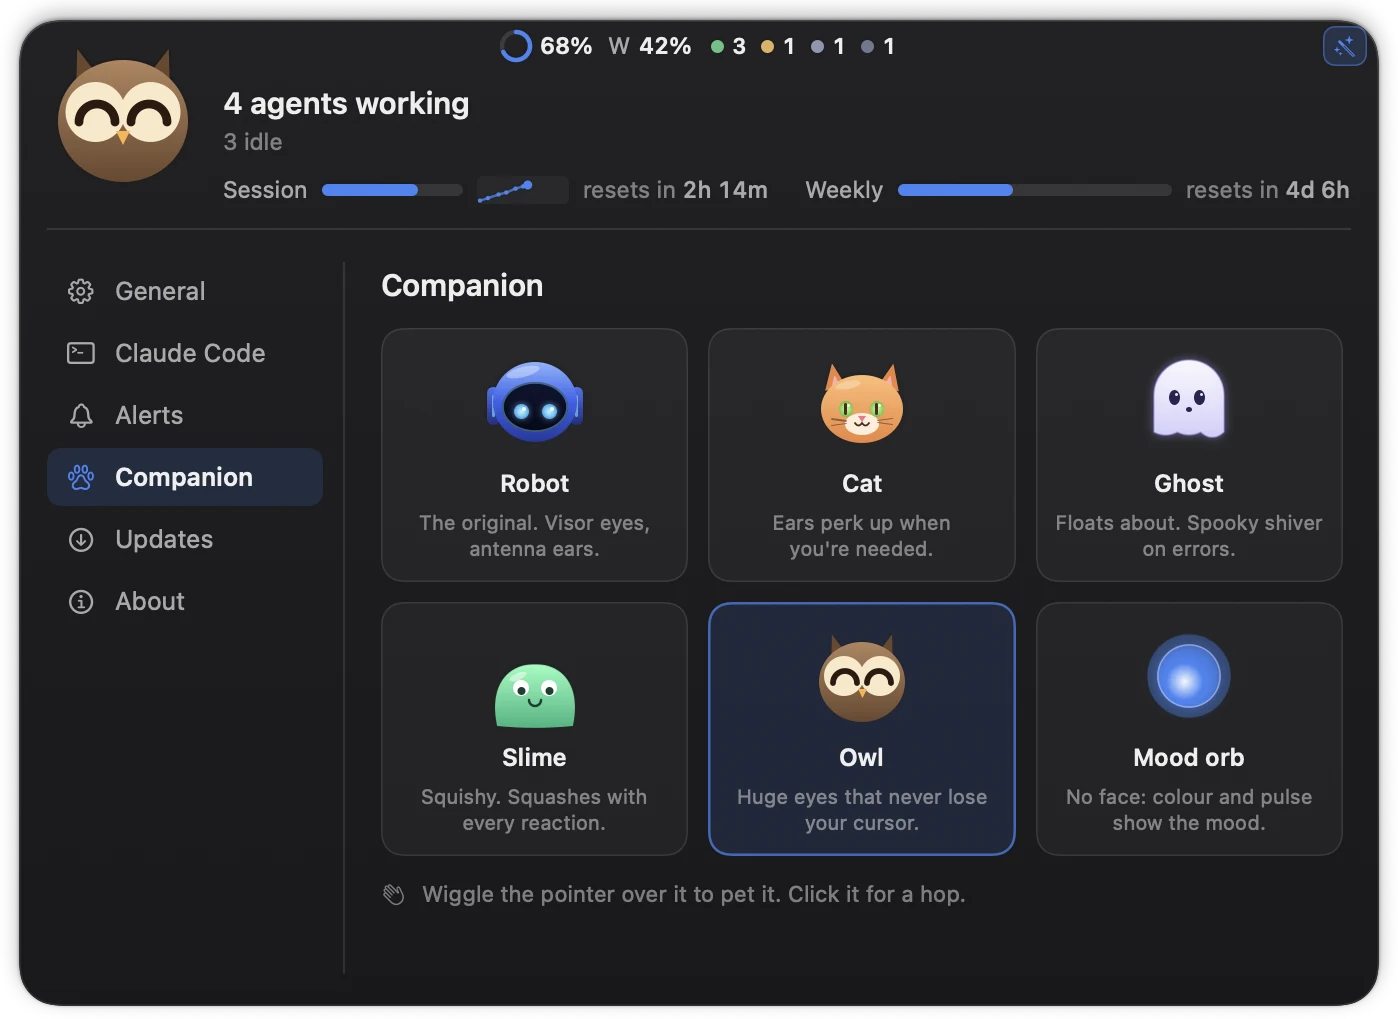
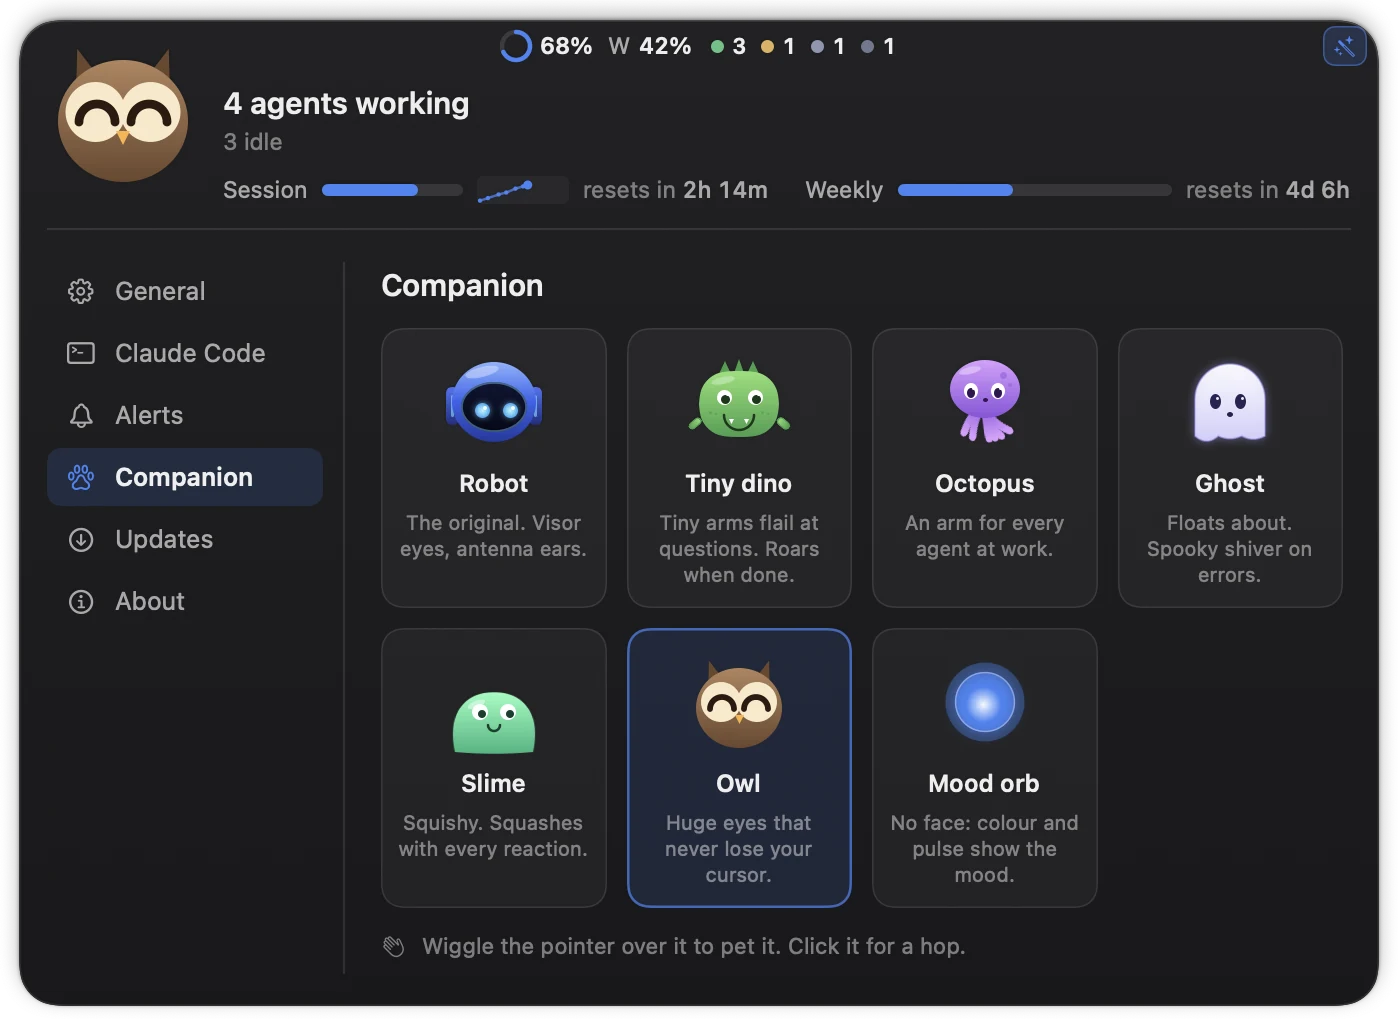
Companions: Tiny dino and Octopus

Changed region(s): [[0.2768, 0.3346, 0.9535, 0.9431], [0.6767, 0.3346, 0.7382, 0.4259]]

diff --git a/index.html b/index.html
@@ -517,10 +517,10 @@
     <div class="center reveal">
       <span class="kicker">Companions</span>
       <h2>A little friend who watches with you.</h2>
-      <p class="sub">Pick a Robot, Cat, Ghost, Slime, Owl or a Mood orb. It follows your pointer, reacts to your agents, and has a few tricks of its own.</p>
+      <p class="sub">Pick a Robot, a Tiny dino, an Octopus (an arm for every agent at work), a Ghost, Slime, Owl or a Mood orb. It follows your pointer, reacts to your agents, and has a few tricks of its own.</p>
     </div>
     <div class="companions">
-      <div class="shot reveal"><img src="assets/panel-companions.webp" alt="The companion picker: Robot, Cat, Ghost, Slime, Owl and Mood orb"></div>
+      <div class="shot reveal"><img src="assets/panel-companions.webp" alt="The companion picker: Robot, Tiny dino, Octopus, Ghost, Slime, Owl and Mood orb"></div>
       <div class="moments">
         <div class="moment reveal"><img src="assets/moment-welcome.webp" alt="The robot hopping with sparkles: Welcome back, 2 tasks finished while you were away"><div><b>Welcome back</b><span>Away for a while? It's happy to see you, and tells you what finished.</span></div></div>
         <div class="moment reveal"><img src="assets/moment-dizzy.webp" alt="The robot spinning with stars around its head"><div><b>Don't click it too much</b><span>Four quick clicks and it gets dizzy. Wiggle your pointer over it to pet it instead.</span></div></div>
